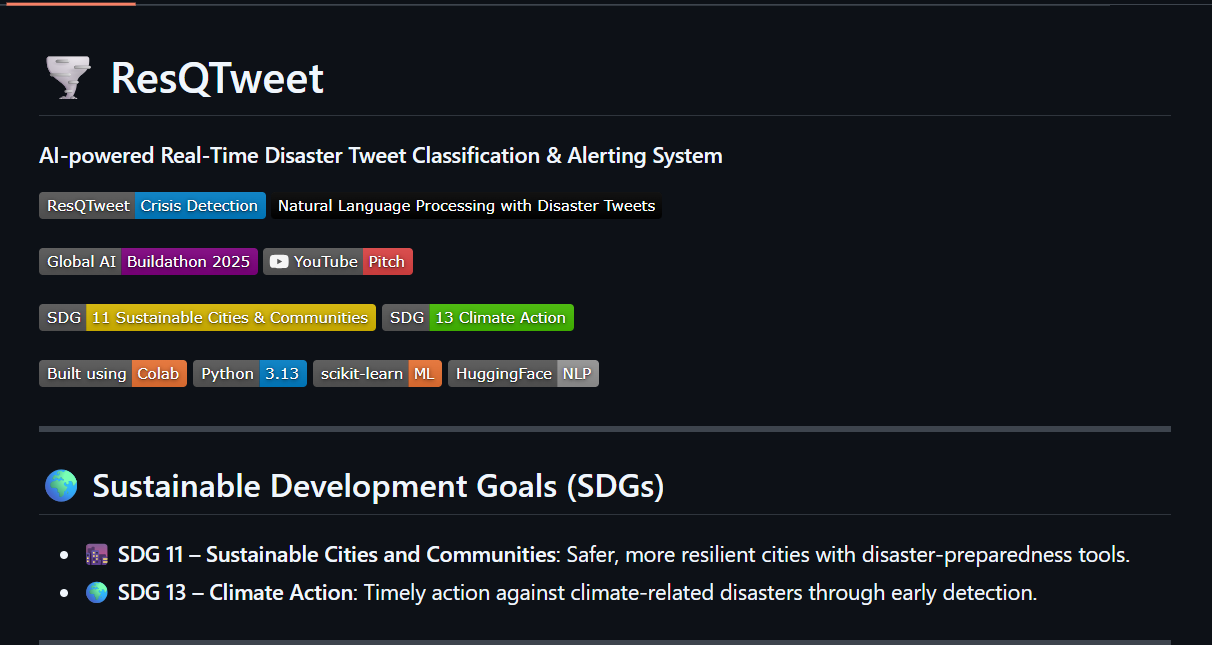
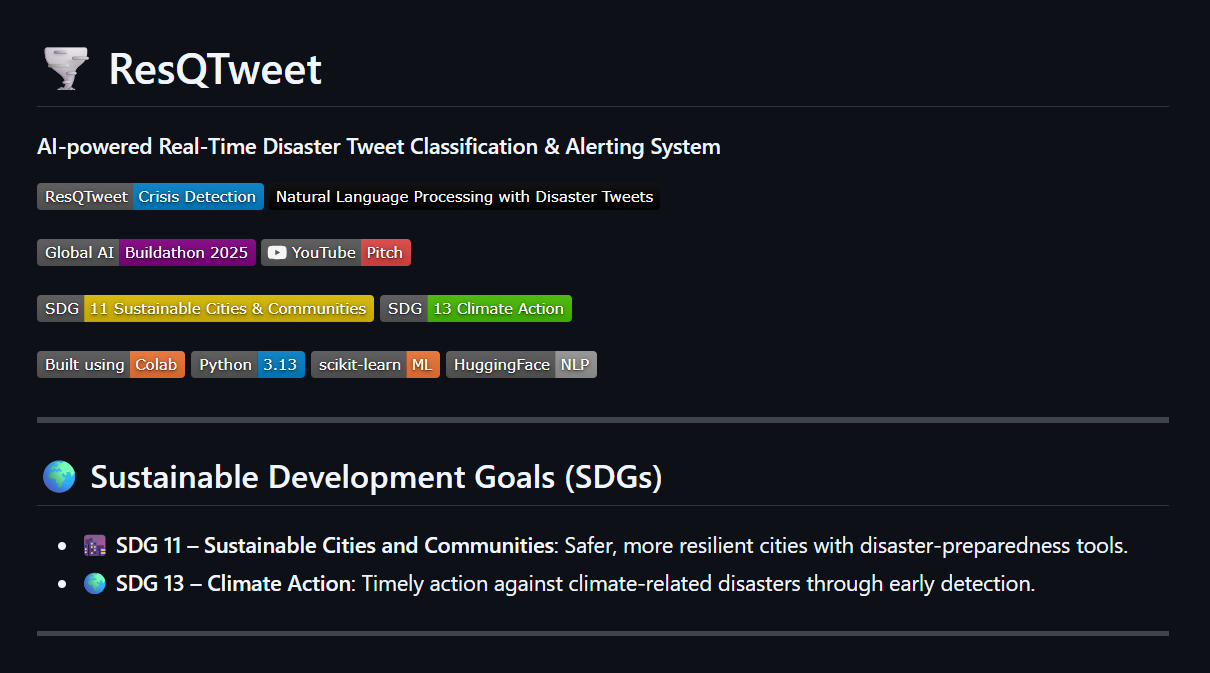
add images for projects

diff --git a/src/lib/projectData.ts b/src/lib/projectData.ts
@@ -1,14 +1,16 @@
 
-import quantinelImg from "@/assets/projects/quantinel.jpg";
 import learnscapeImg from "@/assets/projects/learnscape1.png";
 import ambucastImg from "@/assets/projects/ambucast2.png";
 import udyaraImg from "@/assets/projects/udyara2.png";
-import agronomicsImg from "@/assets/projects/agronomics.png";
+import quantinelImg from "@/assets/projects/quantinel.png";
+import msisImg from "@/assets/projects/msis.png";
+import agronomicsImg from "@/assets/projects/agronomics2.png";
 import resqtweetImg from "@/assets/projects/resQtweet.png";
 import lawyeraiImg from "@/assets/projects/lawyerai2.png";
+import fridgemateImg from "@/assets/projects/fridgemate.png";
 import virasyaImg from "@/assets/projects/virasya.png";
 import waste2worthImg from "@/assets/projects/waste2worth2.png";
-// import sugarsyncImg from "@/assets/projects/sugarsync.png";     
+import sugarsyncImg from "@/assets/projects/sugarsync.png";
 import safehavenImg from "@/assets/projects/safe-haven.png";
 import cryptopulseImg from "@/assets/projects/cryptopulse1.png";
 import planetquestImg from "@/assets/projects/planet-quest.png";
@@ -49,7 +51,7 @@ export const placeholderProjects: Project[] = [
     techStack: ["Python", "Qiskit", "Scikit-learn", "Pandas", "NumPy", "Matplotlib"],
     githubUrl: "https://github.com/archangel2006/Quantinel",
     demoUrl: "https://github.com/archangel2006/Quantinel",
-    image: ""
+    image: quantinelImg
   },
 
   {
@@ -101,7 +103,7 @@ export const placeholderProjects: Project[] = [
     techStack: ["Python", "Scikit-learn", "XGBoost", "Streamlit", "Plotly", "Pandas"],
     githubUrl: "https://github.com/archangel2006/MSIS",
     demoUrl: "https://github.com/archangel2006/MSIS",
-    image: ""
+    image: msisImg
   },
 
   {
@@ -114,7 +116,7 @@ export const placeholderProjects: Project[] = [
     techStack: ["YOLOv8", "FastAPI", "React", "Gemini", "OpenCV"],
     githubUrl: "https://github.com/archangel2006/FridgeMate",
     demoUrl: "https://github.com/archangel2006/FridgeMate",
-    image: ""
+    image: fridgemateImg
   },
 
   {
@@ -192,7 +194,7 @@ export const placeholderProjects: Project[] = [
     techStack: ["React", "Firebase", "JavaScript"],
     githubUrl: "https://github.com/archangel2006/SugarSync",
     demoUrl: "https://github.com/archangel2006/SugarSync",
-    image: ""
+    image: sugarsyncImg
   },
 
   {

diff --git a/src/components/Portfolio.tsx b/src/components/Portfolio.tsx
@@ -19,10 +19,13 @@ import cjmAsset from "@/assets/education/cjm.png";
 import bbpsAsset from "@/assets/education/bbps.png";
 
 // Project images
+import quantinelImg from "@/assets/projects/quantinel.png";
+import msisImg from "@/assets/projects/msis.png";
 import learnscapeImg from "@/assets/projects/learnscape2.png";
 import ambucastImg from "@/assets/projects/ambucast1.png";
 import udyaraImg from "@/assets/projects/udyara1.png";
 import lawyeraiImg from "@/assets/projects/lawyerai2.png";
+import fridgemateImg from "@/assets/projects/fridgemate.png";
 
 // =================== TYPEWRITER HOOK ===================
 const ROLES = [
@@ -354,7 +357,7 @@ const projects = [
     tag: "Quantum Cybersecurity",
     desc: "Hybrid quantum-classical cybersecurity system that detects network intrusions, characterizes attack behavior, and maps emerging threats to known attack families through similarity-based analysis.",
     stack: ["QSVC", "Quantum Kernels", "Attack Characterization", "XGBoost"],
-    image: "",
+    image: quantinelImg,
     demo: "https://github.com/archangel2006/Quantinel",
     github: "https://github.com/archangel2006/Quantinel",
   },
@@ -364,9 +367,19 @@ const projects = [
     tag: "Financial ML",
     desc: "Market intelligence platform that discovers distinct market regimes and analyzes how volatility, drawdown risk, and model behavior change across periods of market stress.",
     stack: ["Regime Detection", "K-Means", "XGBoost", "Risk Modeling", "Drawdown Prediction"],
-    image: "",
+    image: msisImg,
     demo: "https://github.com/archangel2006/MSIS",
     github: "https://github.com/archangel2006/MSIS",
+  },
+
+  {
+    title: "FridgeMate",
+    tag: "AI Recipe Generator",
+    desc: "AI-powered recipe generator that detects ingredients from fridge images using computer vision and generates personalized recipes using Large Language Models.",
+    stack: ["YOLOv8", "Gemini", "OpenCV"],
+    image: fridgemateImg,
+    demo: "https://github.com/archangel2006/FridgeMate",
+    github: "https://github.com/archangel2006/FridgeMate",
   }
 ];
 
